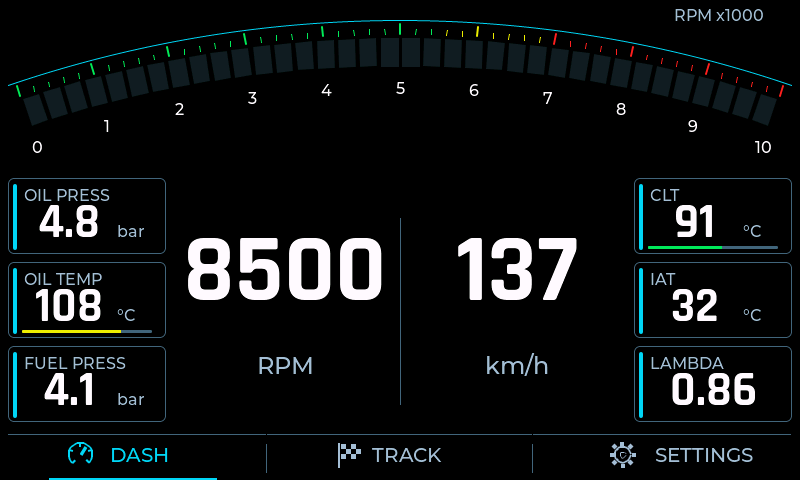
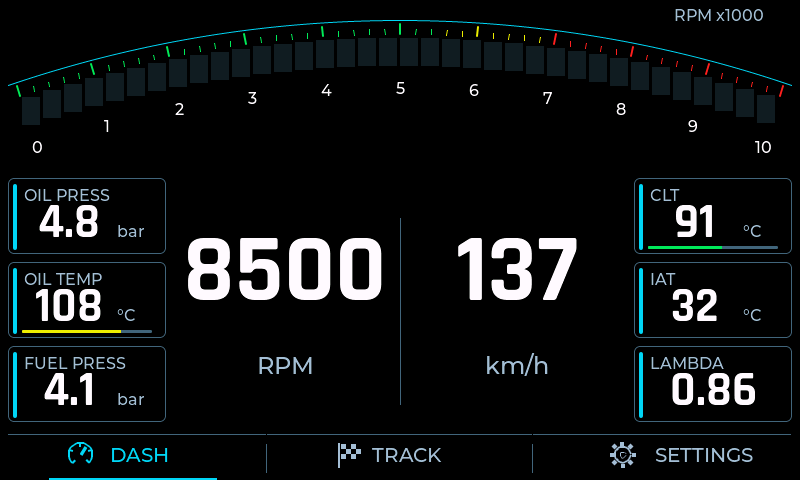
Document validated display stability candidate and refresh captures

diff --git a/docs/ui/display-stability-validation.md b/docs/ui/display-stability-validation.md
@@ -1,0 +1,51 @@
+# Display stability candidate
+
+Firmware source: `8a56d779fd1ee69d118786cfe4eeb83d3c707e7e`, branch `dashboard-dev`.
+This is a test candidate, not a published release. Tests and compilation ran
+only on GitHub.
+
+## Changes
+
+- Two complete RGB565 framebuffers (1500 KiB total), with panel swaps at VSYNC.
+  LVGL waits for ownership transfer before drawing into the previous buffer.
+- LVGL's 512 KiB pool is allocated in PSRAM before initialization. Allocation
+  failures and refresh timeouts are reported rather than silently hanging.
+- Modern Motorsport flashes one complete semicircle at the existing 4 Hz;
+  flash phases do not repaint the whole tachometer or recolor the RPM text.
+- Strip segments are identical upright 18 × 28 pixel rectangles, not rotated
+  polygons. The arc is formed by their vertical positions.
+- USB serial diagnostics every five seconds report rendering time, LVGL free
+  memory, fragmentation, heap, PSRAM and stack headroom. Read at 115200 baud.
+
+## Verification
+
+- [Firmware workflow](https://github.com/barcu00/DIY-dash-5/actions/runs/35324913081):
+  197 native tests and 24 Python packaging/UI contract tests passed; target
+  compilation and full-image packaging passed.
+- [Production LVGL workflow](https://github.com/barcu00/DIY-dash-5/actions/runs/35324913078):
+  25 scenes in each of two buffer modes passed, with pixel-identical output.
+  Incremental/full redraw comparisons, whole-arc flash colors, a 120000-pixel
+  dirty-redraw budget and constant Strip block geometry passed.
+- Regression tests failed before the corresponding changes: the Modern flash
+  dirty-pixel budget and the complete-frame buffer capacity check.
+- Read-only review of framebuffer ownership and the allocation hook completed;
+  its three concrete findings were corrected before these successful runs.
+
+Build reports static RAM 48072 / 327680 bytes (14.7%) and application flash
+835196 / 6553600 bytes (12.7%). Static RAM excludes dynamic allocations and PSRAM;
+it is not the total runtime memory usage.
+
+## Flash image
+
+Download `DIY-Dash-firmware` from the firmware workflow above. Use only
+`DIY-Dash-ESP32-S3-Touch-LCD-5-full.bin` for a complete flash at `0x0` on the
+Waveshare ESP32-S3-Touch-LCD-5 non-B. Expected size: 16777216 bytes.
+
[1 lines of base64/hex data omitted]
+
+**Full-image flashing overwrites NVS settings. Record your settings first.**
+
+The screenshots are actual production-view LVGL captures, not artistic mockups.
+Host rendering cannot prove physical display timing or stability. Test DEMO,
+flash phases, repeated DASH/TRACK switching, settings, touch and brightness on
+the board. If stalls persist, retain the USB serial diagnostic/error output.

diff --git a/design/production-preview/README.md b/design/production-preview/README.md
@@ -3,14 +3,20 @@
 Uses the production TileEngine, TileView, RpmScaleView, ShiftLightView and
 navigation code with real LVGL 8.4. No mocked widgets and no Pillow UI drawing.
 Runs only on GitHub Actions. PPM framebuffer pixels are converted losslessly to
-PNG for viewing. Desktop allocator capacity is enlarged; RGB565 and font
-configuration match firmware. This does not measure embedded RAM or performance.
+PNG for viewing. The 512 KiB allocator capacity, RGB565 and font configuration
+match firmware. CI exercises the embedded pool-allocation hook. This does not
+measure embedded RAM or performance.
 
-Scenes cover all five presets, compact and analog flag states, a warning tile,
+Scenes cover all six presets, compact and analog flag states, a warning tile,
 6000-RPM scale, red flash phases, 10000-RPM digit fitting and unsupported numeric
 captions. Assertions test flash colors, flag-caption separation, digit width and
 unavailable-caption bounds. It does not render the full settings/editor screens,
 simulate CAN hardware, or replace physical touch/smoothness testing.
+
+All 25 scenes run in partial-buffer and full-frame double-buffer direct modes;
+their PNGs must be pixel-identical. Modern flash-off is checked across the
+entire semicircle, and its actual dirty-pixel budget is limited to 120000 pixels.
+Strip connected components must be identical upright 18 × 28 pixel rectangles.
 
 Preview data assignments follow the actual saved/default banks; they may differ
 from the decorative parameters used in the approved static prototypes.

diff --git a/README.md b/README.md
@@ -56,7 +56,7 @@ Black panels, condensed white digits, fine blue-grey frames and cyan navigation
 follow the approved visual prototypes. Analog D uses a colored ring, a moving
 white rectangular index and centered RPM. Modern Motorsport E adds a continuous
 upper semicircle with dim future zones and a white progress cap. Side Gear
-shares one RPM/speed frame; Strip uses equal circular RPM sectors without a logo.
+shares one RPM/speed frame; Strip uses identical upright rectangular blocks without a logo.
 Tile rails are cyan, compact-row labels and values are optically centered, and
 scale labels always use whole thousands. Physical performance still needs board testing.
 
@@ -77,7 +77,9 @@ framebuffers for Analog, Side Gear, Strip and Modern Motorsport, including small
 RPM changes and validity transitions. Its artifacts provide all captured scenes.
 Configuration schema v8 migrates v6/v7 settings while retaining the original
 layout banks and warning-sound preference; the new layout starts with its own defaults.
-See [six-layout validation and test firmware](docs/ui/six-layout-validation.md)
+The display now uses two complete RGB framebuffers with VSYNC-controlled swaps,
+a 512 KiB LVGL pool in PSRAM, and bounded Modern Motorsport flash redraws.
+See [display stability validation and test firmware](docs/ui/display-stability-validation.md)
 for the successful build, full-image checksum and flashing precautions.
 The settings/editor/flag/modal illustrations below remain geometry previews,
 not full-production framebuffer captures.
